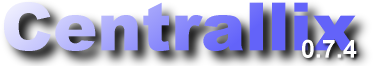
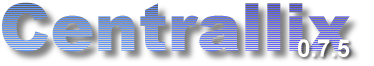
- Updating centrallix-os for 0.7.5

diff --git a/centrallix-os/samples/welcome.html b/centrallix-os/samples/welcome.html
@@ -1,14 +1,14 @@
 <html>
 <head>
-    <title>Welcome to Centrallix 0.7.4</title>
+    <title>Welcome to Centrallix 0.7.5</title>
 </head>
 <body bgcolor=white>
     <br>
-    <h2><center>Welcome to Centrallix 0.7.4!</center></h2>
+    <h2><center>Welcome to Centrallix 0.7.5!</center></h2>
     <center><img src=/sys/images/blue_gradient.png height=2 width=200></center>
     <br>
     Congratulations, you have just successfully installed 
-    Centrallix 0.7.4 on your system!<p>
+    Centrallix 0.7.5 on your system!<p>
     To the left is a list of sample categories; click on 
     the icons to show details.  Clicking on a link will
     display the source code of the sample in this window,
@@ -17,12 +17,12 @@
     window.<p>
 
     <br>
-    <h2><center>Brief Release Notes for 0.7.4</center></h2>
+    <h2><center>Brief Release Notes for 0.7.5</center></h2>
     <center><img src=/sys/images/blue_gradient.png height=2 width=200></center>
     <br>
     1. This is a development release!  Lots of things are still
 	    broken (if you hadn't noticed)! :)<p>
-    2. Centrallix 0.7.4 has partial support for, but
+    2. Centrallix 0.7.5 has partial support for, but
 	    does not entirely work with, IE6 and Mozilla/Gecko.
 	    For full widget support, please use Netscape 4.x for
 	    the time being.<p>
